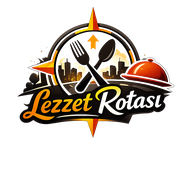
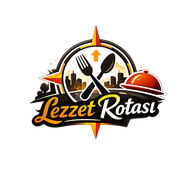
Add files via upload

Changed region(s): [[0.0938, 0.0312, 0.9062, 0.7188]]

diff --git a/index.html b/index.html
@@ -200,7 +200,7 @@ footer strong{color:var(--muted);font-weight:600}
 
 <header>
   <div style="display:flex;align-items:center;gap:14px;margin-bottom:6px">
[2 lines of base64/hex data omitted]
     <div>
       <div class="eyebrow" style="margin-bottom:2px">Şehir şehir, lokma lokma</div>
       <h1>Lezzet <em>Rotası</em></h1>